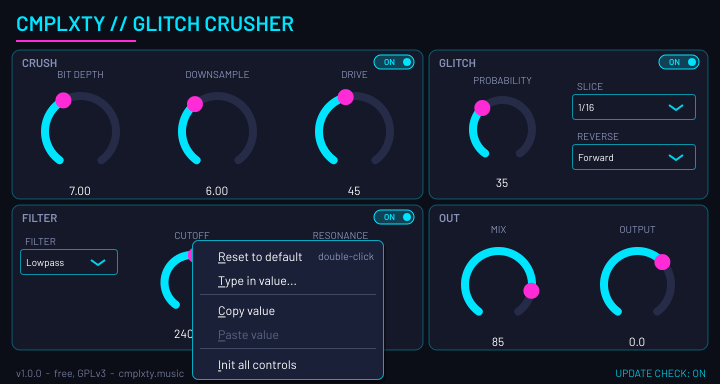
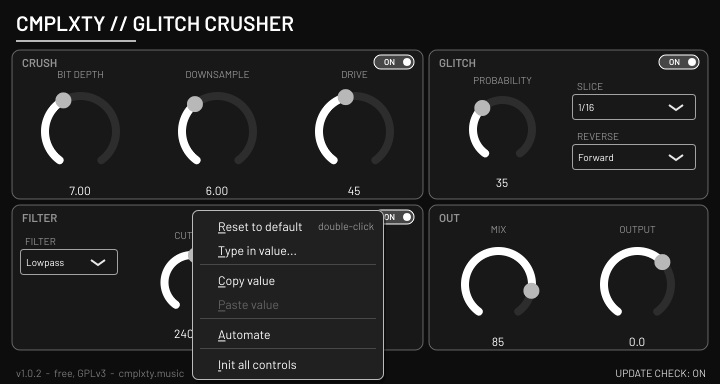
Glitch Crusher 1.0.2: monochrome UI; update check reads version.json's mac block on macOS

diff --git a/glitch-crusher/src/PluginEditor.cpp b/glitch-crusher/src/PluginEditor.cpp
@@ -3,7 +3,7 @@
 
 namespace
 {
-const juce::Colour kBg (0xff0b0d17), kPanel (0xff141829), kCyan (0xff00e5ff), kMagenta (0xffff2bd6), kDim (0xff8a93b8);
+const juce::Colour kBg (0xff0d0d0d), kPanel (0xff181818), kCyan (0xffffffff), kMagenta (0xffb8b8b8), kDim (0xff949494);
 constexpr int kFooterH = 22;
 
 using gcui::uiFont;
@@ -98,7 +98,7 @@ void PopupOverlay::paint (juce::Graphics& g)
 {
     if (! open) return;
     g.setColour (juce::Colours::black.withAlpha (0.35f)); g.fillRoundedRectangle (panel.translated (2, 3).toFloat(), 6.0f);
-    g.setColour (juce::Colour (0xff1a2038)); g.fillRoundedRectangle (panel.toFloat(), 6.0f);
+    g.setColour (juce::Colour (0xff202020)); g.fillRoundedRectangle (panel.toFloat(), 6.0f);
     g.setColour (kCyan.withAlpha (0.7f)); g.drawRoundedRectangle (panel.toFloat().reduced (0.5f), 6.0f, 1.0f);
     const auto f = uiFont (13.0f);
     for (int i = 0; i < (int) items.size(); ++i)
@@ -169,7 +169,7 @@ void UpdateBanner::show (const gc::upd::Info& i)
 void UpdateBanner::paint (juce::Graphics& g)
 {
     auto r = getLocalBounds().toFloat();
-    g.setColour (juce::Colour (0xff1a2038)); g.fillRoundedRectangle (r, 6.0f);
+    g.setColour (juce::Colour (0xff202020)); g.fillRoundedRectangle (r, 6.0f);
     g.setColour (kMagenta.withAlpha (0.85f)); g.drawRoundedRectangle (r.reduced (0.5f), 6.0f, 1.0f);
     g.setColour (kMagenta); g.fillEllipse (10.0f, r.getCentreY() - 3.0f, 6.0f, 6.0f);
     g.setColour (juce::Colours::white); g.setFont (uiFont (12.0f, true));
@@ -189,7 +189,7 @@ GlitchCrusherEditor::Look::Look()
 {
     setDefaultSansSerifTypeface (gcui::uiTypeface (false));
     setColour (juce::Slider::rotarySliderFillColourId, kCyan);
-    setColour (juce::Slider::rotarySliderOutlineColourId, juce::Colour (0xff262c47));
+    setColour (juce::Slider::rotarySliderOutlineColourId, juce::Colour (0xff2d2d2d));
     setColour (juce::Slider::thumbColourId, kMagenta);
     setColour (juce::Slider::textBoxTextColourId, juce::Colours::white);
     setColour (juce::Slider::textBoxOutlineColourId, juce::Colours::transparentBlack);
@@ -201,7 +201,7 @@ GlitchCrusherEditor::Look::Look()
     setColour (juce::PopupMenu::backgroundColourId, kPanel);
     setColour (juce::PopupMenu::textColourId, juce::Colours::white);
     setColour (juce::PopupMenu::highlightedBackgroundColourId, kMagenta.darker (0.4f));
-    setColour (juce::TextButton::buttonColourId, juce::Colour (0xff262c47));
+    setColour (juce::TextButton::buttonColourId, juce::Colour (0xff2d2d2d));
     setColour (juce::TextButton::textColourOffId, juce::Colours::white);
 }
 
@@ -209,7 +209,7 @@ void GlitchCrusherEditor::Look::drawToggleButton (juce::Graphics& g, juce::Toggl
 {
     auto r = b.getLocalBounds().toFloat().reduced (1.0f);
     const bool on = b.getToggleState();
-    g.setColour (on ? kCyan.withAlpha (0.20f) : juce::Colour (0xff262c47)); g.fillRoundedRectangle (r, r.getHeight() * 0.5f);
+    g.setColour (on ? kCyan.withAlpha (0.20f) : juce::Colour (0xff2d2d2d)); g.fillRoundedRectangle (r, r.getHeight() * 0.5f);
     g.setColour (on ? kCyan : kDim.withAlpha (highlighted ? 0.9f : 0.6f)); g.drawRoundedRectangle (r, r.getHeight() * 0.5f, 1.0f);
     const float d = r.getHeight() - 6.0f;
     const float cx = on ? r.getRight() - 3.0f - d : r.getX() + 3.0f;

diff --git a/glitch-crusher/test/update_test.cpp b/glitch-crusher/test/update_test.cpp
@@ -29,6 +29,17 @@ static void offline()
     // ---- version.json
     Info i;
     const juce::String good = R"j({"version":"1.0.2","url":"https://cmplxty.music/plugins/glitch-crusher/","installer":"https://cmplxty.music/plugins/glitch-crusher/CMPLXTY-Glitch-Crusher-Setup-1.0.0-win.exe","notes":"Gender fix"})j";
+    { // "mac" block: used only when useMacBlock() (true on macOS), falls back to top level
+        const char* mj = R"j({"version":"1.0.5","url":"https://cmplxty.music/a.exe","mac":{"version":"1.0.6","url":"https://cmplxty.music/a.pkg","installer":"a.pkg","sha256":"00","size":1,"notes":"m"}})j";
+        Info mi; useMacBlock() = false;
+        CHECK (parseInfo (mj, mi) && mi.version == "1.0.5" && mi.url.endsWith (".exe"));
+        useMacBlock() = true;
+        CHECK (parseInfo (mj, mi) && mi.version == "1.0.6" && mi.url.endsWith (".pkg") && mi.installer == "a.pkg" && mi.notes == "m");
+        CHECK (parseInfo (R"j({"version":"1.0.5","url":"https://cmplxty.music/a.exe"})j", mi) && mi.version == "1.0.5");
+        CHECK (parseInfo (R"j({"version":"1.0.5","url":"https://cmplxty.music/a.exe","mac":{"version":""}})j", mi) && mi.version == "1.0.5");
+        CHECK (! parseInfo (R"j({"version":"1.0.5","url":"https://cmplxty.music/a.exe","mac":{"version":"1.0.6","url":"https://evil.example/a.pkg"}})j", mi));
+        useMacBlock() = false;
+    }
     CHECK (parseInfo (good, i) && i.version == "1.0.2" && i.url == "https://cmplxty.music/plugins/glitch-crusher/" && i.installer.endsWith ("CMPLXTY-Glitch-Crusher-Setup-1.0.0-win.exe") && i.notes == "Gender fix");
     CHECK (parseInfo (R"j({"version":"1.0.2","url":"https://cmplxty.music/plugins/glitch-crusher/"})j", i) && i.installer.isEmpty() && i.notes.isEmpty());
     // the shape the listing publishes: url = direct installer URL, "Update" opens its folder page

diff --git a/glitch-crusher/src/UpdateCheck.h b/glitch-crusher/src/UpdateCheck.h
@@ -65,15 +65,36 @@ inline juce::String pageForUrl (const juce::String& url)
     return url;
 }
 
+// true on macOS; tests can flip it to exercise the "mac" block on other platforms
+inline bool& useMacBlock()
+{
+   #if JUCE_MAC
+    static bool b = true;
+   #else
+    static bool b = false;
+   #endif
+    return b;
+}
+
 inline bool parseInfo (const juce::String& text, Info& out, bool requireTrustedUrl = true)
 {
     juce::var v;
     if (text.length() > kMaxBytes || ! juce::JSON::parse (text, v).wasOk() || ! v.isObject()) return false;
+    // On macOS a "mac" block { version, url, installer, sha256, size, notes } wins when it has a version and url;
+    // otherwise (and on Windows/Linux) the top-level fields are used.
+    juce::var src = v;
+    if (useMacBlock())
+    {
+        const auto m = v.getProperty ("mac", {});
+        if (m.isObject() && m.getProperty ("version", {}).toString().trim().isNotEmpty()
+                         && m.getProperty ("url", {}).toString().trim().isNotEmpty())
+            src = m;
+    }
     Info i;
-    i.version = v.getProperty ("version", {}).toString().trim();
-    i.url = v.getProperty ("url", {}).toString().trim();
-    i.installer = v.getProperty ("installer", {}).toString().trim();
-    i.notes = v.getProperty ("notes", {}).toString().trim().substring (0, 400);
+    i.version = src.getProperty ("version", {}).toString().trim();
+    i.url = src.getProperty ("url", {}).toString().trim();
+    i.installer = src.getProperty ("installer", {}).toString().trim();
+    i.notes = src.getProperty ("notes", {}).toString().trim().substring (0, 400);
     int dummy[4];
     if (! parseVersion (i.version, dummy)) return false;
     if (requireTrustedUrl && ! isTrustedUrl (i.url)) return false;
